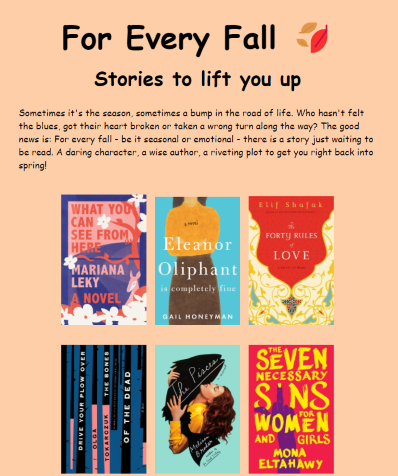
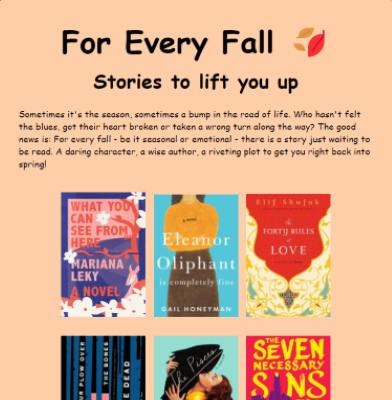
Added projects cards

diff --git a/projects.html b/projects.html
@@ -80,31 +80,32 @@
       </div>
     </nav>
 
-<div class="page-content">
-      <div class="row d-flex justify-content-center">
-        <div class="col-md-6">
-         
-          <img src="src/landing-page-bw.png" alt="image of landing page" class="img-fluid" />
-          <p>Built with HTML, CSS and JavaScript.</p>
-        <button type="button" class="btn btn-lg btn-dark">
-        <a href="https://foreveryfall.netlify.app" target="blank" title="Go to For Every Fall">Go to project</a>
-        </button>
-        </div>
-        
-  <div class="col-md-6">
-     
-          <img src="src/weather-bw.png" alt="image of weather app" class="img-fluid" />
-        <p>Built with HTML, CSS and JavaScript & API integration.</p>
-        <button type="button" class="btn btn-lg btn-dark">
-        <a href="https://elesweatherapp.netlify.app" target="blank" title="Go to Weather App">Go to project</a>
-        </button>
-            </div>
-        </div>
-      </div>
+<div class="projects">
+
+  <div class="projects-container"> 
+    <div class="project-container project-card">
+      <img src="src/weather.png" alt="weather app" class="project-pic"/>
+      <h3>Weather App</h3>
+      <p>Built with HTML, CSS, JavaScript & API integration.</p>
+      <a href="https://elesweatherapp.netlify.app" target="blank">Go to project</a>
+    </div>
+  
+
+ 
+    <div class="project-container project-card">
+      <img src="src/landing-page.png" alt="landing page" class="project-pic"/>
+      <h3>Landing page</h3>
+      <p>Built with HTML, CSS, JavaScript</p>
+      <a href="https://foreveryfall.netlify.app" target="blank">Go to project</a>
+    </div>
+  </div>
+
+
+</div>
 
 
 
-  <footer class="fixed-bottom mb-1 mb-md-5  text-center">
+  <footer class="fixed-bottom mb-1 text-center">
        <a href="https://www.linkedin.com/in/eleonorapennini" class="social-links" target="blank"><i class="fab fa-linkedin-in" ></i></a>
       <a href="https://twitter.com/NorainNovember" class="social-links" target="blank"><i class="fab fa-twitter"></i></a>
       <a href="mailto:noraelesmail@gmail.com" class="social-links" target="blank"><i class="fas fa-envelope"></i></a>

diff --git a/src/style.css b/src/style.css
@@ -1,11 +1,6 @@
 :root {
-  --primary-color: #eeeeee;
   --heading-font: "Rubik", sans-serif;
   --paragraph-font: "Roboto", sans-serif;
-}
-
-body {
-  background-color: var(--primary-color);
 }
 
 h1,
@@ -21,7 +16,8 @@ h1 {
 }
 
 h2 {
-  font-size: 20px;
+  font-size: 25px;
+  font-weight: bold;
   margin-bottom: 25px;
 }
 
@@ -30,6 +26,7 @@ p {
   margin-bottom: 0px;
   text-align: center;
   font-weight: lighter;
+  font-size: 18px;
 }
 a {
   color: white;
@@ -57,11 +54,6 @@ hr {
   margin-bottom: 25px;
 }
 
-img {
-  border-radius: 20px;
-  border: 2px ridge #a99ba5;
-  box-shadow: 5px rgba(0, 0, 0, 0.5);
-}
 small {
   font-size: 10px;
   font-family: var(--paragraph-font);
@@ -80,6 +72,10 @@ button:hover {
   transform: scale(1.1);
 }
 
+img {
+  border-radius: 4px;
+}
+
 .navbar {
   font-family: var(--paragraph-font);
   font-weight: bolder;
@@ -95,8 +91,54 @@ button:hover {
   margin-top: 80px;
 }
 
-.page-content h2 {
+.projects-container {
+  display: flex;
+  align-items: center;
+  justify-content: center;
+}
+
+.project-container {
+  text-align: center;
+  width: 500px;
+  padding: 16px;
+}
+
+.project-pic {
+  width: 100%;
+  height: 100%;
+}
+.project-card {
+  background-color: #f8f9fa;
+  border-radius: 11px;
+  box-shadow: 0 3px 10px rgba(0, 0, 0, 0.3);
+  padding: 30px;
+  margin: 30px;
+}
+
+.project-card:hover {
+  transform: scale(1.1);
+}
+
+.projects h3 {
+  font-family: var(--heading-font);
+  font-size: 20px;
+  font-weight: bold;
+  margin-top: 15px;
+}
+
+.projects h2 {
+  font-family: var(--heading-font);
+  font-size: 30px;
   font-weight: bolder;
+  margin-bottom: 20px;
+}
+
+.projects p {
+  margin-top: 0px;
+}
+
+.projects a {
+  color: red;
 }
 
 .social-links {
@@ -113,10 +155,4 @@ button:hover {
 
 .text-links:hover {
   color: #393e46;
-}
-
-@media (max-width: 415px) {
-  .home {
-    margin-top: 20px;
-  }
 }

diff --git a/index.html b/index.html
@@ -74,7 +74,7 @@
         <a href="about.html" title="Learn more">More</a>
       </button>
     </div>
-    <footer class="fixed-bottom mb-1 mb-md-5  text-center">
+    <footer class="fixed-bottom mb-1  text-center">
        <a href="https://www.linkedin.com/in/eleonorapennini" class="social-links" target="blank"><i class="fab fa-linkedin-in" ></i></a>
       <a href="https://twitter.com/NorainNovember" class="social-links" target="blank"><i class="fab fa-twitter"></i></a>
       <a href="mailto:noraelesmail@gmail.com" class="social-links" target="blank"><i class="fas fa-envelope"></i></a>

diff --git a/about.html b/about.html
@@ -116,7 +116,7 @@
 <hr>
 </div>
 
-   <footer class="fixed-bottom mb-1 mb-md-5  text-center">
+   <footer class="fixed-bottom mb-1  text-center">
        <a href="https://www.linkedin.com/in/eleonorapennini" class="social-links" target="blank"><i class="fab fa-linkedin-in" ></i></a>
       <a href="https://twitter.com/NorainNovember" class="social-links" target="blank"><i class="fab fa-twitter"></i></a>
       <a href="mailto:noraelesmail@gmail.com" class="social-links" target="blank"><i class="fas fa-envelope"></i></a>

diff --git a/contact.html b/contact.html
@@ -107,7 +107,7 @@
 <hr>
 </div>
 
-  <footer class="fixed-bottom mb-1 mb-md-5  text-center">
+  <footer class="fixed-bottom mb-1  text-center">
        <a href="https://www.linkedin.com/in/eleonorapennini" class="social-links" target="blank"><i class="fab fa-linkedin-in" ></i></a>
       <a href="https://twitter.com/NorainNovember" class="social-links" target="blank"><i class="fab fa-twitter"></i></a>
       <a href="mailto:noraelesmail@gmail.com" class="social-links" target="blank"><i class="fas fa-envelope"></i></a>
